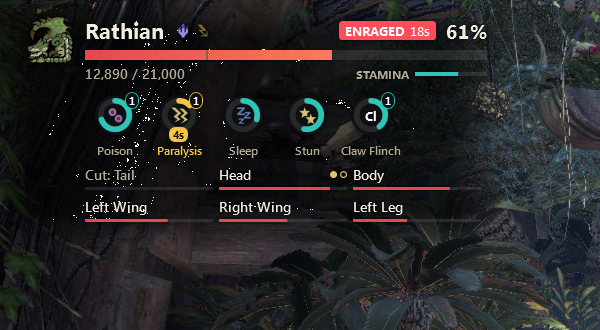
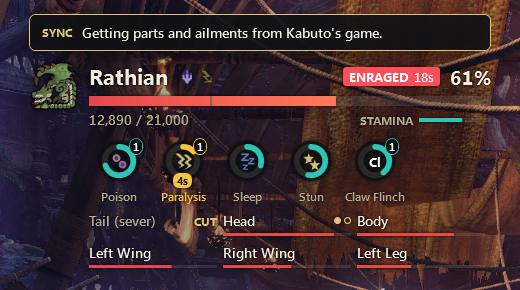
Layout editor takes the cursor from the game, closes on Alt-Tab; README with new screenshots

diff --git a/SmartHunter/Ui/Resources/Default.xaml b/SmartHunter/Ui/Resources/Default.xaml
@@ -238,8 +238,9 @@
         <Setter Property="TextWrapping" Value="Wrap" />
         <Setter Property="TextAlignment" Value="Center" />
         <Setter Property="HorizontalAlignment" Value="Center" />
-        <Setter Property="VerticalAlignment" Value="Center" />
-        <Setter Property="Margin" Value="16 4" />
+        <!--At the bottom of the reserved space: in the middle it drew through whatever the widget was showing-->
+        <Setter Property="VerticalAlignment" Value="Bottom" />
+        <Setter Property="Margin" Value="16 4 16 10" />
     </Style>
 
     <!--Danger: three red blinks, then it stays lit. Targets an element named Danger.

diff --git a/SmartHunter/Core/Windows/LayoutEditor.cs b/SmartHunter/Core/Windows/LayoutEditor.cs
@@ -28,6 +28,8 @@ namespace SmartHunter.Core.Windows
         Action m_Done, m_Reset;
         Action<WidgetWindow> m_Toggle;
         IList<WidgetWindow> m_Widgets = new List<WidgetWindow>();
+        IntPtr m_ReturnFocusTo;
+        bool m_IsOpen;
 
         static readonly Brush Surface = Frozen(Color.FromArgb(0xF2, 0x1A, 0x1B, 0x1E));
         static readonly Brush Stroke = Frozen(Color.FromArgb(0xFF, 0x2E, 0x30, 0x36));
@@ -48,7 +50,7 @@ namespace SmartHunter.Core.Windows
             Top = SystemParameters.VirtualScreenTop;
             Width = SystemParameters.VirtualScreenWidth;
             Height = SystemParameters.VirtualScreenHeight;
-            SourceInitialized += (s, e) => WindowHelper.SetTopMostSelectable(this);
+            SourceInitialized += (s, e) => WindowHelper.SetTopMostFocusable(this);
 
             m_Accent = Application.Current.TryFindResource("B_Accent") as Brush ?? Frozen(Color.FromRgb(0xE2, 0xC2, 0x7A));
             var guide = ((SolidColorBrush)m_Accent).Color;
@@ -72,6 +74,17 @@ namespace SmartHunter.Core.Windows
                 Content = BuildToolbar(),
             };
             m_Toolbar.SourceInitialized += (s, e) => WindowHelper.SetTopMostSelectable(m_Toolbar);
+            // Alt-Tab or the Windows key while editing: finish, or the dark layer would cover whatever you switched to.
+            // Clicking the widgets or the toolbar doesn't count, they never take focus.
+            Deactivated += (s, e) =>
+            {
+                if (m_IsOpen)
+                {
+                    Log.WriteLine("Layout editor lost focus, closing it");
+                    m_ReturnFocusTo = IntPtr.Zero;
+                    m_Done?.Invoke();
+                }
+            };
             // Centred on the primary screen: the middle is where the hunter stands, so no widget lives there
             m_Toolbar.SizeChanged += (s, e) =>
             {
@@ -194,6 +207,7 @@ namespace SmartHunter.Core.Windows
                 }
             }
 
+            m_IsOpen = true;
             m_Guides.Children.Clear();
             BeginAnimation(OpacityProperty, null);
             Opacity = 0;
@@ -201,6 +215,17 @@ namespace SmartHunter.Core.Windows
             {
                 Show();
             }
+
+            // Take focus like Discord's overlay does: while the game has it, it hides the cursor and pins it to the
+            // middle of the screen, so nothing could be dragged. The game gets focus back when editing ends.
+            var foreground = WindowsApi.GetForegroundWindow();
+            var handle = new System.Windows.Interop.WindowInteropHelper(this).Handle;
+            if (foreground != handle)
+            {
+                m_ReturnFocusTo = foreground;
+            }
+            WindowHelper.BringToForeground(handle);
+            WindowsApi.ClipCursor(IntPtr.Zero);
             BeginAnimation(OpacityProperty, new DoubleAnimation(1, TimeSpan.FromMilliseconds(160)) { EasingFunction = new CubicEase { EasingMode = EasingMode.EaseOut } });
         }
 
@@ -222,12 +247,15 @@ namespace SmartHunter.Core.Windows
 
         public void Close(bool animate = true)
         {
+            m_IsOpen = false;
             if (!IsVisible)
             {
                 return;
             }
             m_Guides.Children.Clear();
             m_Toolbar.Hide();
+            WindowHelper.BringToForeground(m_ReturnFocusTo);
+            m_ReturnFocusTo = IntPtr.Zero;
             var fade = new DoubleAnimation(0, TimeSpan.FromMilliseconds(animate ? 140 : 0));
             fade.Completed += (s, e) =>
             {

diff --git a/SmartHunter/Core/Helpers/WindowHelper.cs b/SmartHunter/Core/Helpers/WindowHelper.cs
@@ -125,6 +125,36 @@ namespace SmartHunter.Core.Helpers
             WindowsApi.SetWindowPos(handle, -1, 0, 0, 0, 0, TopMostWindowSizePositions);
         }
 
+        // Topmost and clickable, and it can take focus: the layout editor's backdrop has to, or the game keeps the
+        // cursor pinned to the middle of the screen
+        public static void SetTopMostFocusable(Window window)
+        {
+            if (!TryGetHandle(window, out var handle))
+            {
+                return;
+            }
+            WindowsApi.SetWindowLong(handle, (int)WindowsApi.WindowLongGroup.GWL_EXSTYLE, TopMostSelectableWindowStyleFlags & ~(uint)WindowsApi.WindowStyleFlag.WS_EX_NOACTIVATE);
+            WindowsApi.SetWindowPos(handle, -1, 0, 0, 0, 0, TopMostWindowSizePositions);
+        }
+
+        // Windows only lets the app the user is using bring a window forward. Sharing the foreground window's input
+        // queue for a moment makes the request count as coming from it.
+        public static void BringToForeground(IntPtr handle)
+        {
+            if (handle == IntPtr.Zero || !WindowsApi.IsWindow(handle))
+            {
+                return;
+            }
+            uint foregroundThread = WindowsApi.GetWindowThreadProcessId(WindowsApi.GetForegroundWindow(), IntPtr.Zero);
+            uint thisThread = WindowsApi.GetCurrentThreadId();
+            bool attached = foregroundThread != 0 && foregroundThread != thisThread && WindowsApi.AttachThreadInput(thisThread, foregroundThread, true);
+            WindowsApi.SetForegroundWindow(handle);
+            if (attached)
+            {
+                WindowsApi.AttachThreadInput(thisThread, foregroundThread, false);
+            }
+        }
+
         public static void SetTopMostTransparent(Window window)
         {
             if (!TryGetHandle(window, out var handle))

diff --git a/SmartHunter/Core/WindowsApi.cs b/SmartHunter/Core/WindowsApi.cs
@@ -284,5 +284,23 @@ namespace SmartHunter.Core
 
         [DllImport("user32.dll")]
         public static extern IntPtr GetForegroundWindow();
+
+        [DllImport("user32.dll")]
+        public static extern bool SetForegroundWindow(IntPtr hWnd);
+
+        [DllImport("user32.dll")]
+        public static extern bool IsWindow(IntPtr hWnd);
+
+        [DllImport("user32.dll")]
+        public static extern uint GetWindowThreadProcessId(IntPtr hWnd, IntPtr processId);
+
+        [DllImport("user32.dll")]
+        public static extern bool AttachThreadInput(uint idAttach, uint idAttachTo, bool fAttach);
+
+        [DllImport("kernel32.dll")]
+        public static extern uint GetCurrentThreadId();
+
+        [DllImport("user32.dll")]
+        public static extern bool ClipCursor(IntPtr rect);
     }
 }

diff --git a/SmartHunter/Game/Data/ViewModels/OverlayViewModel.cs b/SmartHunter/Game/Data/ViewModels/OverlayViewModel.cs
@@ -79,8 +79,8 @@ namespace SmartHunter.Game.Data.ViewModels
         {
             get
             {
-                // While editing the layout from the app window the game isn't focused, but you still need to see what you move
-                return (IsGameActive || CanManipulateWindows) && !HideWidgetsRequested;
+                // While editing the game isn't focused, and the hide key may be on, but you still need to see what you move
+                return CanManipulateWindows || (IsGameActive && !HideWidgetsRequested);
             }
         }
 

diff --git a/SmartHunter/Game/MhwOverlay.cs b/SmartHunter/Game/MhwOverlay.cs
@@ -51,6 +51,7 @@ namespace SmartHunter.Game
         // Done: back to click-through, and save where they ended up.
         void ApplyEditMode(bool isEditing)
         {
+            Log.WriteLine(isEditing ? "Layout editor opened" : "Layout editor closed");
             if (isEditing)
             {
                 // The debug widget is for development; it's shown from its setting only

diff --git a/README.md b/README.md
@@ -1,40 +1,185 @@
+<img src="docs/overlay.jpg" alt="Aether running over Monster Hunter: World"/>
+
+<div align="center">
+
+[![Badge Version]][Releases]
+[![Badge Downloads]][Releases]
+[![Badge Platform]][Releases]
+[![Badge License]][License]
+
+---
+
+**[<kbd> <br> 🚀 Install <br> </kbd>][Installation]**
+**[<kbd> <br> 🕹 Features <br> </kbd>][Features]**
+**[<kbd> <br> 🤝 Party sync <br> </kbd>][PartySync]**
+**[<kbd> <br> ❓ FAQ <br> </kbd>][FAQ]**
+
+---
+</div>
+
 # Aether
 
-An overlay for Monster Hunter: World on PC (Iceborne 15.20). It shows the monster you're fighting, party damage, your buffs and sharpness, and a results screen after each quest.
+A clean, fast overlay for **Monster Hunter: World** on PC. It shows the monster you're fighting with its parts and ailments,
+how much damage everyone in your party is doing, your buffs and sharpness, and a results card when the quest ends.
 
-![Monster widget](docs/monster-widget.png)
+Aether only **reads** the game. It never changes it, injects into it or hooks it, so it can't break your game or your save.
 
-It started as a fork of [SmartHunter](https://github.com/gabrielefilipp/SmartHunter) that I fixed up for me and my friends.
+## Requirements
 
-## Install
+- Monster Hunter: World with Iceborne on Steam (Windows 10 or 11)
+- The game in **Borderless** or **Windowed** mode. Overlays can't draw over exclusive fullscreen.
+- [.NET Framework 4.8](https://dotnet.microsoft.com/download/dotnet-framework/net48). Windows 10 and 11 already have it.
 
-Grab `Aether-x.y.z.zip` from [Releases](https://github.com/noahwaseaten/Aether/releases/latest), extract it and run `Install Aether.cmd`. Windows may warn you because the exe isn't signed: click More info, then Run anyway.
+## Installation
 
-Aether updates itself when a new release is out.
+1. Download `Aether-x.y.z.zip` from the [latest release][Releases].
+2. Extract the whole zip and run **`Install Aether.cmd`**. It installs to `%LocalAppData%\Aether` and adds Start Menu and
+   Desktop shortcuts. No admin rights needed.
+3. Start the game and Aether in any order. Aether finds the game on its own.
 
-## Using it
+> Windows may warn you because Aether isn't signed. Click **More info**, then **Run anyway**.
 
-To move widgets, click Edit layout in the Aether window or hold Left Alt in game. Drag to move, scroll to resize. F1 hides everything while you hold it.
+Aether **updates itself**. When a new version is out it downloads it, checks it, and shows you what changed.
+To remove it, run `Uninstall Aether.cmd` in its folder.
 
-## Reading the monster widget
+## Features
 
-Each part has its own damage pool. The bar is what's left in it. Every time it empties the monster flinches and the pool refills. A part with dots breaks once all its dots are filled (one dot per time the pool has to empty), then it shows BROKEN. Parts without dots only flinch. "Cut:" parts like the tail come off the first time their pool empties, then turn grey.
+### Monster
 
-The element icons next to the name are the monster's weaknesses: bright is 3 stars, dim is 2.
+<img src="docs/monster-widget.png" alt="Monster widget" align="right" width="420"/>
+
+- Health, enrage timer and stamina of the monster you're fighting
+- **Parts**: how close each one is to flinching or breaking, with a dot for each break
+- **Ailments**: poison, paralysis, sleep, stun and more, with buildup and how many times they've triggered
+- Weaknesses, crowns, tenderized parts and the capture threshold
+- Follows the monster you **lock onto**, or the one you pin on the map
+- Turf wars and double hunts get a compact line for the other monster
+
+<br clear="right"/>
+
+### Team damage
+
+<img src="docs/team-widget.png" alt="Team damage widget" align="right" width="300"/>
+
+- Damage and share for up to 4 hunters, with their weapon and a bar
+- Counts **every monster**, including expeditions, when your friends run Aether too
+- The Aether logo next to a name means that hunter runs Aether too. A `~` means only their quest-target damage is known, and `—` means
+  the game keeps no number for them (see [Party sync][PartySync])
+
+<br clear="right"/>
+
+### Buffs and sharpness
+
+<img src="docs/buffs-widget.png" alt="Buffs widget" align="right" width="260"/>
+
+- Quest clock
+- Sharpness with hits left until the next level
+- Buffs, debuffs, mantles and weapon timers (Charge Blade, Insect Glaive, Long Sword, Switch Axe) with time left
+
+<br clear="right"/>
+
+### Hunt recap
+
+<img src="docs/hunt-recap.png" alt="Hunt recap" align="right" width="380"/>
+
+- Shows when the quest ends: result, stars, carts, and how each monster went down
+- Who did the most damage, ranked
+
+<br clear="right"/>
+
+### Layout editor
+
+Press **Scroll Lock** in game, or click **Edit layout** in the Aether window. The game dims and every widget gets a tab
+and a resize handle, like Discord's overlay or Lunar Client's HUD editor.
+
+<img src="docs/layout-editor.jpg" alt="Layout editor"/>
+
+- **Drag** a widget to move it. It snaps to the screen edges, the centre lines and the other widgets.
+- **Drag the corner** or **scroll** to resize. Double-click resets the size.
+- Show or hide widgets from the toolbar, or with the eye on a widget's tab.
+- Hold **Shift** to place freely. **Esc** or **Done** when you're finished. Everything is saved as you go.
+
+### The Aether window
+
+<img src="docs/app.png" alt="Aether window" align="right" width="320"/>
+
+Every setting is one click and applies instantly. Hover a setting to see what it does.
+
+- **Open with the game**: Aether waits quietly after you sign in and opens when the game starts
+- **Hide while a game menu is open**, so widgets never cover the map
+- **Discord Rich Presence**: your area, the monster and its health, and how the quest ended
+- **Save backups**: zips your saves when the game closes, in case one gets corrupted
+- A **Log** tab and a **Report a bug** button if something looks wrong
+
+<br clear="right"/>
+
+### Keyboard
+
+| Key | What it does |
+| --- | --- |
+| <kbd>Scroll Lock</kbd> | Open or close the layout editor |
+| <kbd>F1</kbd> | Hide or show every widget |
+| <kbd>F5</kbd> | Copy the team's damage split to the clipboard |
+| <kbd>F6</kbd> <kbd>F7</kbd> <kbd>F9</kbd> <kbd>F10</kbd> | Copy hunter 1, 2, 3 or 4's damage |
 
 ## Party sync
 
-MHW only gives exact part HP and ailment buildup to the host, and it doesn't track damage on expeditions. If everyone in the party runs Aether with party sync on (the default), the host's numbers get shared through the SmartHunter sync server. If the host isn't running Aether, you'll still see monster health, rage and stamina, just not parts.
+Monster Hunter: World only gives the **host's** game the exact part and ailment numbers, and it keeps **no damage
+numbers at all on expeditions**. Aether fills those gaps by sharing between everyone in the party who runs it, through
+the SmartHunter sync server. It's on by default and only sends a hashed lobby ID, hunter names, damage and monster data.
+
+| Who runs Aether | Monster parts and ailments | Team damage in quests | Team damage on expeditions |
+| --- | --- | --- | --- |
+| Everyone | ✅ Exact, from the host | ✅ Every monster | ✅ Everyone |
+| The host, not everyone | ✅ Exact for the host | ✅ Quest targets for all, every monster for Aether users | Aether users only, others show `—` |
+| Not the host | ⚠ Your game's estimate, Aether tells you | ✅ Quest targets for all, every monster for Aether users | Aether users only, others show `—` |
+| Only you, solo | ✅ Exact (you're the host) | ✅ | ✅ |
+
+The more of your party runs Aether, the more you see.
+
+## FAQ
+
+**Can I get banned?**
+Aether only reads the game's memory, the same way HunterPie and SmartHunter always have. It doesn't modify the game or
+inject anything into it. World has no anti-cheat for overlays like this, but as with any third-party tool, use it at
+your own risk.
+
+**The widgets don't show up.**
+Set the game to Borderless or Windowed. If they still don't show, check the card at the top of the Aether window: it
+says what's wrong.
+
+**The game updated and Aether stopped working.**
+Aether finds the game's data again after most updates by itself. If it can't, it tells you, and an update for Aether
+usually follows.
+
+**My antivirus flags it.**
+Reading another program's memory looks suspicious to some antivirus tools. Aether is open source: the code is all here.
 
 ## Building
 
 ```powershell
-.\build.ps1 -Version 1.0.2            # build and test, zip goes in dist\
-.\build.ps1 -Version 1.0.2 -Publish   # same, then publish a GitHub release
+.\build.ps1 -Version 0.0.0      # build, run the self-test, zip goes in dist\
 ```
+
+Needs Visual Studio 2022 or the .NET SDK with the .NET Framework 4.8 targeting pack.
 
 ## Credits
 
-Built on SmartHunter by r00telement, gabrielefilipp and dragonyue0417. Memory offsets checked against [HunterPie](https://github.com/HunterPie/HunterPie-legacy).
+Aether started as a fork of [SmartHunter](https://github.com/gabrielefilipp/SmartHunter) by r00telement, gabrielefilipp
+and dragonyue0417. Memory addresses and game data are checked against [HunterPie](https://github.com/HunterPie/HunterPie).
 
-Aether only reads game memory. Use it at your own risk.
+<!------- { Summary } ------>
+[Installation]: #installation
+[Features]: #features
+[PartySync]: #party-sync
+[FAQ]: #faq
+
+<!------- { Links } -------->
+[Releases]: https://github.com/noahwaseaten/Aether/releases/latest
+[License]: LICENSE.txt
+
+<!------- { Badges } ------->
+[Badge Version]: https://img.shields.io/github/v/release/noahwaseaten/Aether?color=E2C27A&label=Version
+[Badge Downloads]: https://img.shields.io/github/downloads/noahwaseaten/Aether/total?color=2E3036&label=Downloads
+[Badge Platform]: https://img.shields.io/badge/Windows-10%20%7C%2011-2E3036?logo=windows&logoColor=white
+[Badge License]: https://img.shields.io/github/license/noahwaseaten/Aether?color=A39C8C

diff --git a/CLAUDE.md b/CLAUDE.md
@@ -118,9 +118,11 @@ unreleased. Internal-only changes (docs, build scripts) don't need one.
   checks for the game every 3 s, then starts normally and closes with the game. Each game start counts once, so closing
   Aether mid-hunt doesn't reopen it. Testing it with "Start the game with Aether" on launches the game.
 - Layout editing (Scroll Lock, as in HunterPie, or the Edit layout button) dims the game behind `LayoutEditor` and gives
-  each widget an `EditChrome`: a name tab with a hide button and a corner resize grip. Widgets stay separate windows,
+  each widget an `EditChrome`: a name tab with a hide button and a corner resize grip. The editor takes focus while open,
+  because the focused game pins the cursor to the middle of the screen, and gives it back when you're done; Alt-Tab
+  away closes it. (Left Alt worked before only because holding Alt makes the game let go of the cursor.) Widgets stay separate windows,
   which is also how Discord's 2025 overlay draws over games without hooking them. The toolbar is its own window so it
-  stacks above the widgets. Edit windows use `WS_EX_NOACTIVATE`, so the game keeps focus. Leaving edit mode saves only
+  stacks above the widgets. Widgets and the toolbar use `WS_EX_NOACTIVATE`, so clicking them doesn't take focus from the editor. Leaving edit mode saves only
   after the widgets shrink back: right-side widgets shift while they shrink, and saving at once stored the shifted spot.
 - Widget placement is saved on every drag and resize (`WidgetWindow.PlacementChanged`), not only when edit mode ends.
 - Routine sync calls (pull, push, damage) aren't logged one by one: they filled the log and pushed out what mattered.
